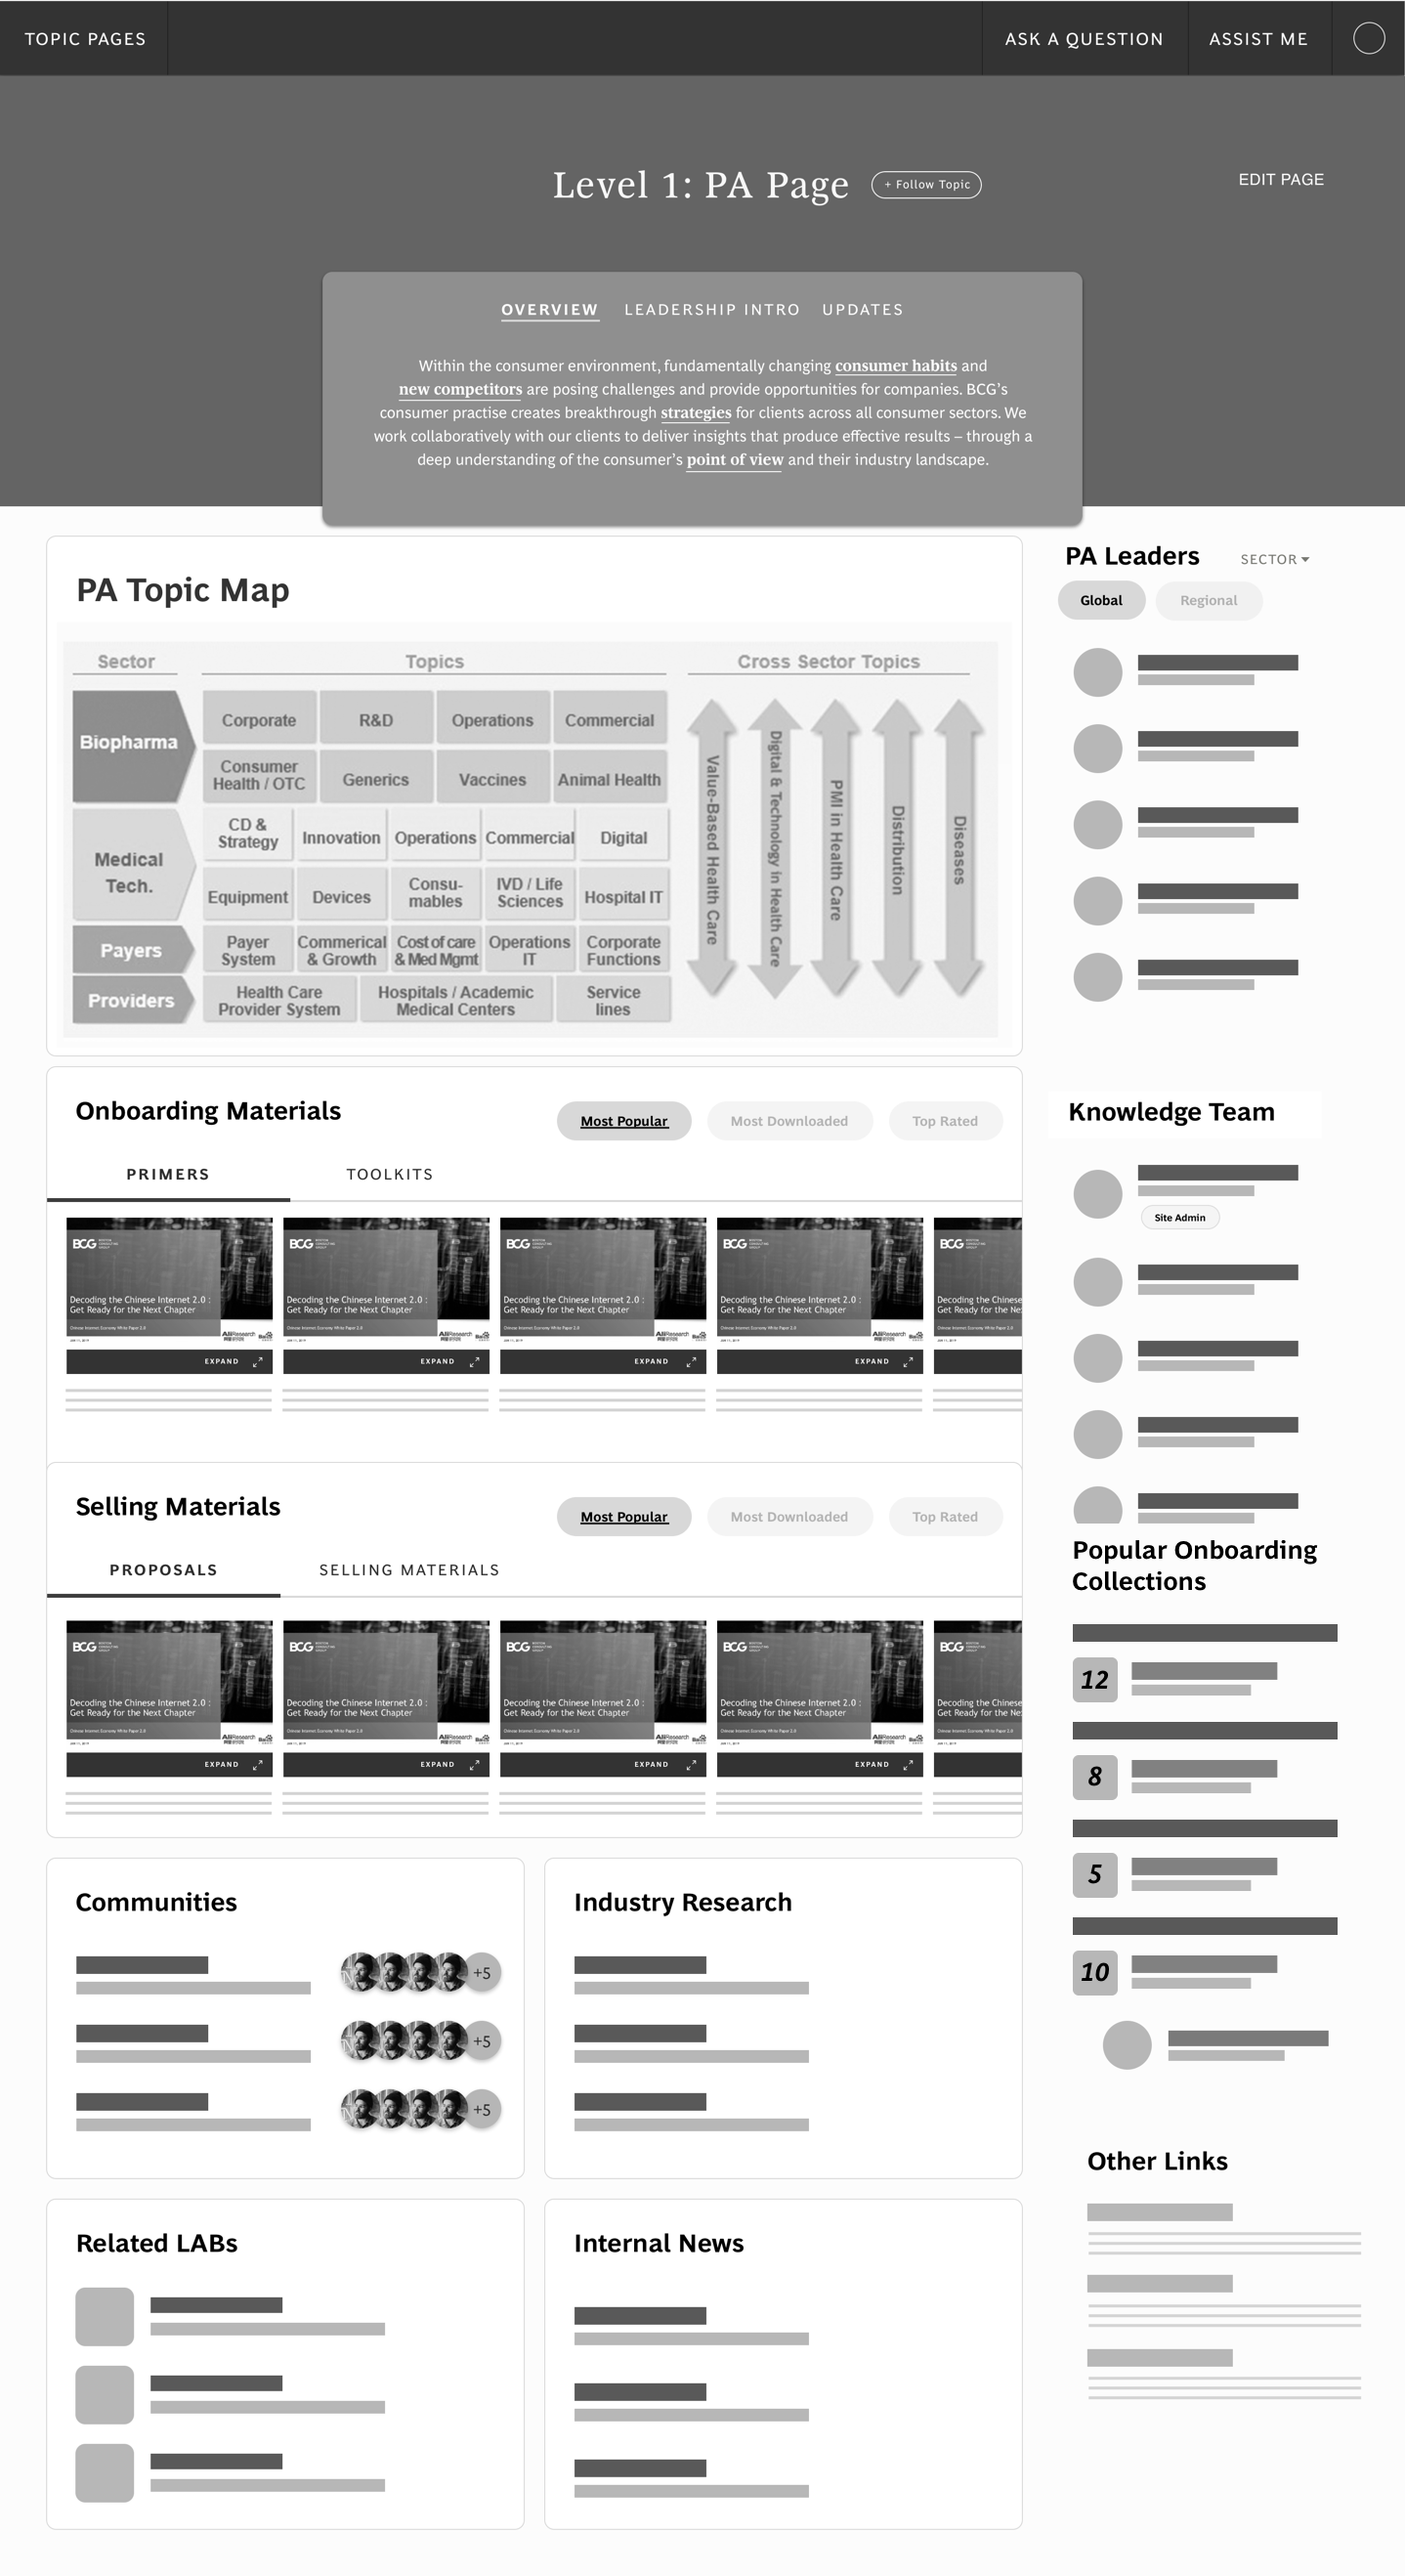
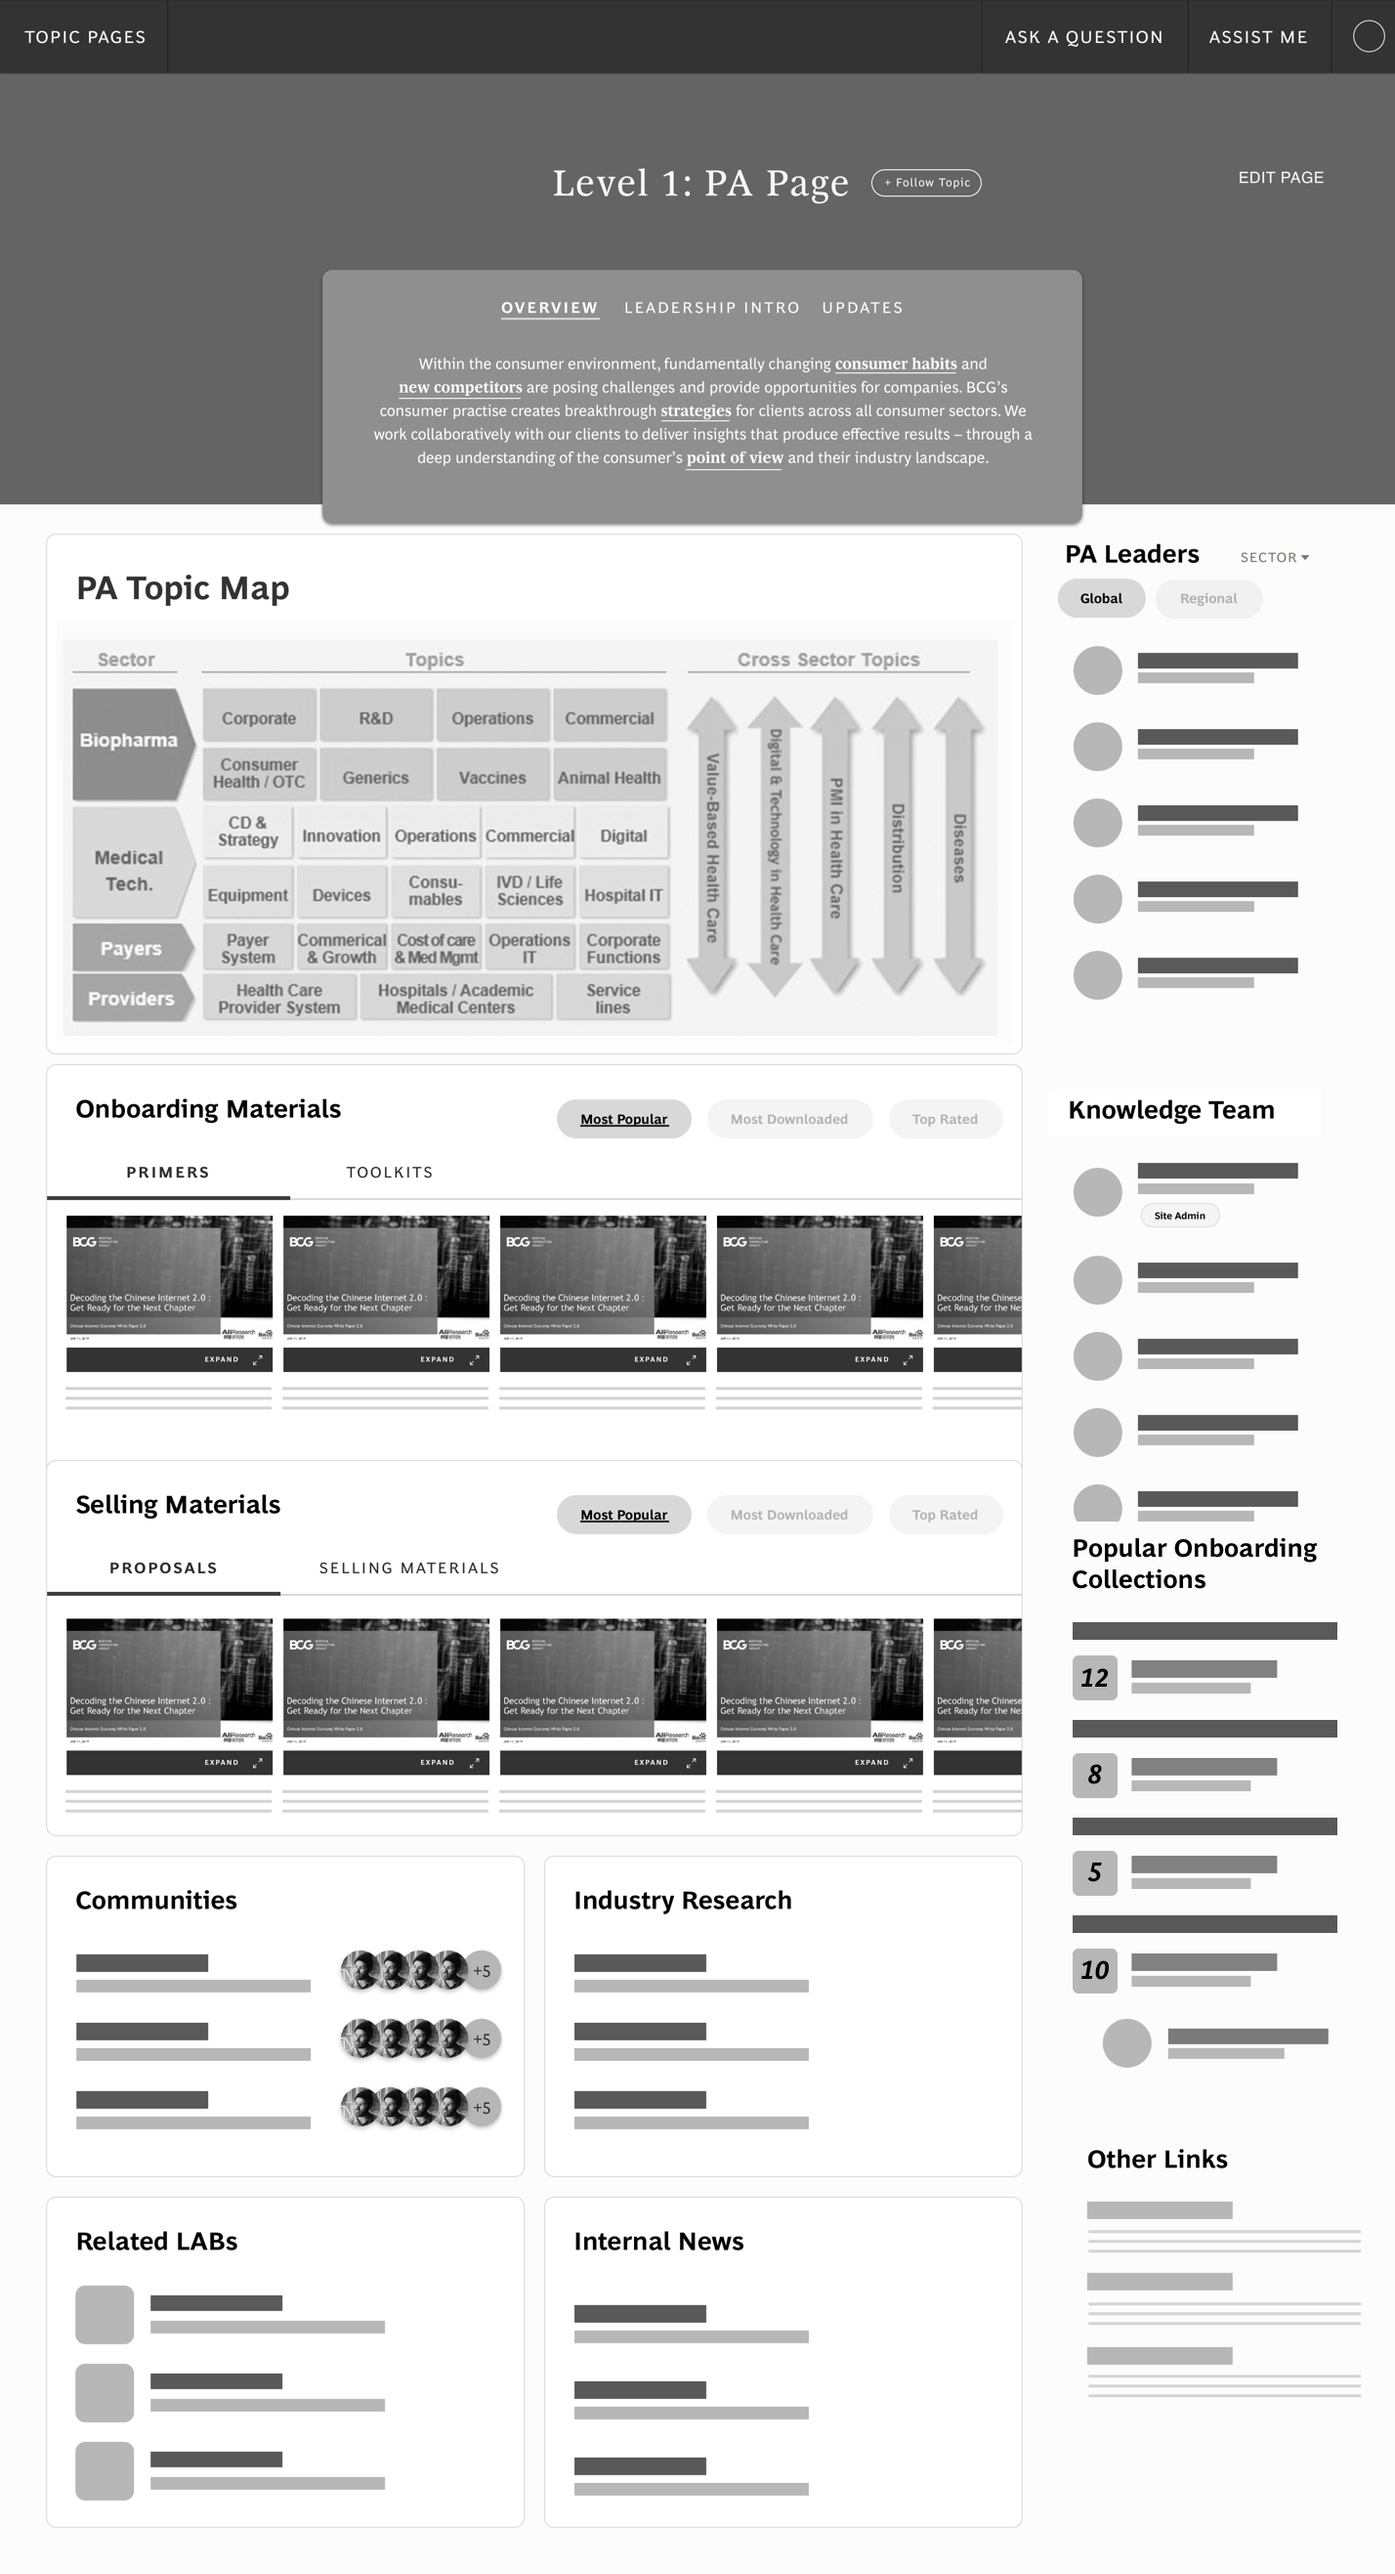
update assets

diff --git a/pages/levels.scss b/pages/levels.scss
@@ -17,7 +17,7 @@ body,
         left: 0;
 
         width: 154px;
-        height: 69px;
+        height: 65px;
 
         .dropdown-button {
             border: none;
